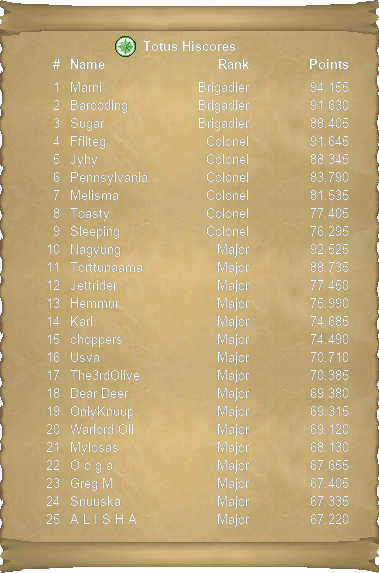
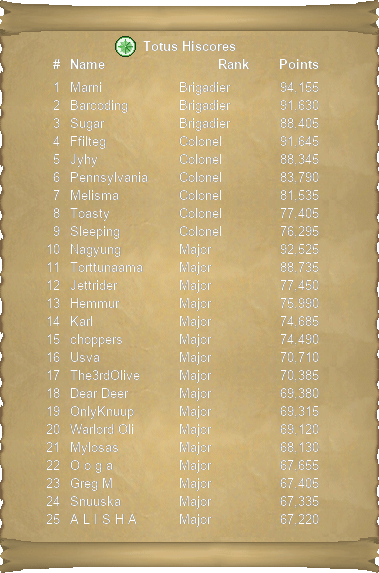
Added some extra comments

Changed region(s): [[0.7256, 0.089, 0.9288, 0.9197], [0.4644, 0.1483, 0.6675, 0.9197]]

diff --git a/totus_hiscores.py b/totus_hiscores.py
@@ -1,3 +1,7 @@
+'''
+A method for converting the stuff from Totus discord channel "highscores" to a image similar to 
+the oldschool.runescape.com website hiscores.
+'''
 from PIL import Image, ImageDraw, ImageFont
 import re
 
@@ -103,6 +107,8 @@ y += PADDING + HEADING_PADDING
 # Iterate through the rows and draw the relavent data on the image.
 i = 0
 for row in dg:
+    # With more than 25 entries, there will be too much text.
+    # also 25 is the limit on the OSRS website.
     if i > 25:
         break
     leader_board_rank = row[0]
@@ -120,5 +126,5 @@ for row in dg:
 
     i += 1
 
-image.show()
-#image.save("totus_hiscore_image.png")
+#image.show()
+image.save("totus_hiscore_image.png")
